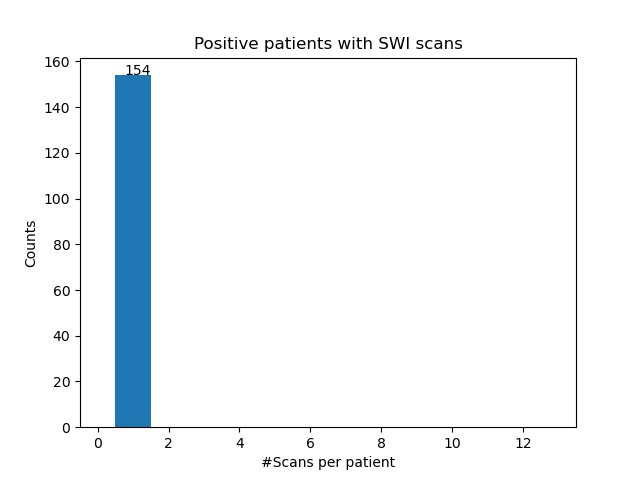
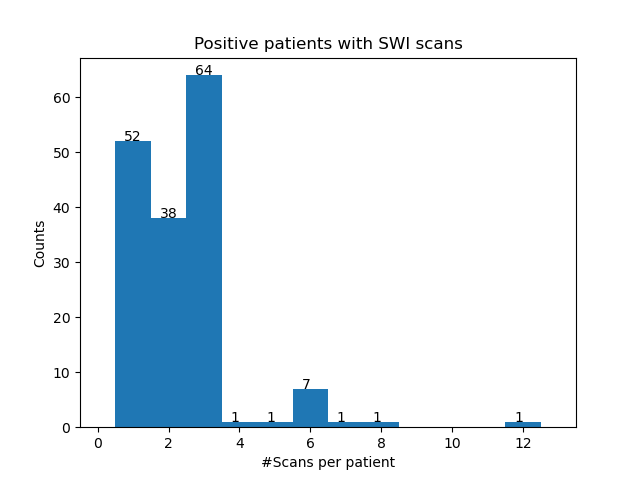
swi stats + power calculation

diff --git a/Cobra/cobra/general_stats_swi.py b/Cobra/cobra/general_stats_swi.py
@@ -16,63 +16,12 @@ main_folder = "/home/neus/Documents/09.UCPH/MasterThesis/github/Thesis/Cobra/cob
 figs_folder = f'{main_folder}/figs/cmb_stats'
 csv_folder = f"{main_folder}/tables"
 csv_file_name = "swi_pos_scans"
-# csv_file_name = "neg_pos_clean"
-
-# table_all = load_scan_csv(f'{csv_folder}/{csv_file_name}.csv')
-# ###### Inspect quality for SWI positive scans.
-# mask_nan_values =  (table_all['InstanceCreationDate'].notna()&table_all['DateTime'].notna())
-# swi_pos_scans = table_all[(table_all['Positive']==1)&(table_all['Sequence']=='swi')&(table_all['days_since_test']>-3)&mask_nan_values]
-# #swi_pos_patients = swi_pos_scans.drop_duplicates(substet=['PatientID'])
-
-# swi_pos_scans = save_nscans(swi_pos_scans,f'{csv_folder}/{swi_pos_scans}')
 
 swi_pos_scans =  load_scan_csv(f'{csv_folder}/{csv_file_name}.csv')
 n_scans = swi_pos_scans.shape[0]
 n_patients = swi_pos_scans.drop_duplicates(subset='PatientID').shape[0]
 print(f'Number of scans:\t{n_scans}\nNumber of patients:\t{n_patients}')
 
-#Box plot
-swi_pos_scans.drop(index=2) #No slices in the folder????
-
-swi_pos_scans['PatientID'].to_csv(f'{csv_folder}/swi_pos_patientIds.csv')
-
-x_dim = swi_pos_scans['Rows']
-y_dim = swi_pos_scans['Columns']
-z_dim = swi_pos_scans['NumberOfSlices']
-data_to_plot = [x_dim,y_dim,z_dim]
-data_labels = ['dim x','dim y','dim z']
-
-fig,ax=plt.subplots()
-ax = create_boxplot(ax,data_to_plot,data_labels,title='Dimensions for SWI images')
-ax.set(ylabel='#Pixels')
-fig.savefig(f'{figs_folder}/swi_pos_dimensions.png')
-
-
-scans_groupedbyPatient = swi_pos_scans.groupby(['PatientID'])
-# Scans per patient distribution
-scans_perPatient = scans_groupedbyPatient.size()
-scans_min,scans_max = np.min(scans_perPatient),np.max(scans_perPatient)
-fig,ax = plt.subplots()
-ax.set(ylabel='Counts',xlabel='#Scans per patient')
-hist_data = create_1d_hist(ax,scans_perPatient,14,(-0.5,13.5),'Positive patients with SWI scans',display_counts=True)
-fig.savefig(f'{figs_folder}/swi_scans_per_patient.png')
-
-#Take patients that have only 1,2 or 3 scans
-patients_id = scans_perPatient[scans_perPatient<4].keys()
-swi_pos_scans = swi_pos_scans[swi_pos_scans['PatientID'].isin(patients_id)]
-swi_pos_scans = swi_pos_scans.sort_values('days_since_test',ascending=False)
-
-#Days since test for patients with multiple scans
-swi_pos_scans = swi_pos_scans.groupby('PatientID').first().reset_index() ###TAKING THE LATEST SCAN 
-days = swi_pos_scans['days_since_test']
-days_min,days_max = np.min(days),np.max(days)
-fig,ax = plt.subplots()
-ax.set(ylabel='Counts',xlabel='#Days since positive test')
-create_1d_hist(ax,days,100,(days_min,days_max),'Postive patients with multiple SWI')
-fig.savefig(f'{figs_folder}/swi_days_since_test.png')
-
-
-#print(swi_pos_scans.iloc[0])
 
 ### STATISTICS ON FILTERED DATA ##################################################################
 # Patients that: 
@@ -137,6 +86,40 @@ fig,ax = plt.subplots()
 ax.set(ylabel='Counts', xlabel=f'B$_0$ [T]')
 create_1d_hist(ax,b_values,4,(1.25,3.25),'Magnetic Field Strength for positive SWI',display_counts=True)
 fig.savefig(f'{figs_folder}/swi_pos_magneticFieldStrength.png')
+
+#Box plot for dimensions
+swi_pos_scans.drop(index=2) #No slices in the folder????
+ 
+x_dim = swi_pos_scans['Rows']
+y_dim = swi_pos_scans['Columns']
+z_dim = swi_pos_scans['NumberOfSlices']
+
+fig,ax=plt.subplots(1,2,figsize=(12,5))
+ax = ax.flatten()
+
+ax[0] = create_boxplot(ax[0],[x_dim,y_dim,z_dim],['Height','Width','Depth'],title='Dimensions for SWI images')
+ax[0].set(ylabel='#Pixels')
+
+ax[1] = create_boxplot(ax[1],[px_spacing_x,px_spacing_y,spacing_values],['Pix.Spacing x', 'Pix.spacing y', 'Spacing Between Slices'],title='Spacing for SWI images')
+ax[1].set(ylabel='Spacing [mm]')
+fig.savefig(f'{figs_folder}/swi_pos_dimensions.png')
+
+fig,ax=plt.subplots(2,2,figsize=(8,7),gridspec_kw={'width_ratios': [3, 1]})
+ax = ax.flatten()
+
+ax[0] = create_boxplot(ax[0],[x_dim,y_dim],['Height','Width'])
+ax[0].set(ylabel='#Pixels')
+
+ax[1] = create_boxplot(ax[1],[z_dim],['Depth'])
+ax[1].set(ylabel='#Pixels')
+
+ax[2] = create_boxplot(ax[2],[px_spacing_x,px_spacing_y],['Pix.Spacing x', 'Pix.spacing y'])
+ax[2].set(ylabel='Spacing [mm]')
+
+ax[3] = create_boxplot(ax[3],[spacing_values],['Spacing Between Slices'])
+ax[3].set(ylabel='Spacing [mm]')
+
+fig.savefig(f'{figs_folder}/swi_pos_dimensions_v2.png')
 
 #plt.show()
 

diff --git a/Cobra/cobra/other_calculations.py b/Cobra/cobra/other_calculations.py
@@ -5,6 +5,7 @@ Created on Nov 19th 2021
 @author: Neus Rodeja Ferrer
 """
 from utilities.stats import weighted_mean,weighted_std
+from utilities.utils import get_MDE
 import numpy as np
 
 #Multiple sclerosis Case-Control study
@@ -24,7 +25,7 @@ cmbs_number_std_all = weighted_std(cmbs_number_stds_all,weights_all)
 cmbs_volume_mean_all = weighted_mean(cmbs_volume_means_all,weights_all)
 cmbs_volume_std_all = weighted_std(cmbs_volume_stds_all,weights_all)
 
-print(f'For all population\n# CMBs = \t({cmbs_number_mean_all:.2f}+\-{cmbs_number_std_all:.2f})\nCMBs volume = \t({cmbs_volume_mean_all:.2f}+\-{cmbs_volume_std_all:.2f})')
+print(f'For all population\n# CMBs = \t({cmbs_number_mean_all:.2f}+\-{cmbs_number_std_all:.2f}) units \nCMBs volume = \t({cmbs_volume_mean_all:.2f}+\-{cmbs_volume_std_all:.2f}) mm³')
 #Values for <= 50 y.o.
 cmbs_number_means_50 = np.array([1.4,1.3,1.3])
 cmbs_number_stds_50 = np.array([0.7,0.5,0.5])
@@ -40,7 +41,7 @@ cmbs_number_std_50 = weighted_std(cmbs_number_stds_50,weights_50)
 cmbs_volume_mean_50 = weighted_mean(cmbs_volume_means_50,weights_50)
 cmbs_volume_std_50 = weighted_std(cmbs_volume_stds_50,weights_50)
 
-print(f'For >=50 y.o. population\n# CMBs = \t({cmbs_number_mean_50:.2f}+\-{cmbs_number_std_50:.2f})\nCMBs volume = \t({cmbs_volume_mean_50:.2f}+\-{cmbs_volume_std_50:.2f})')
+print(f'For >=50 y.o. population\n# CMBs = \t({cmbs_number_mean_50:.2f}+\-{cmbs_number_std_50:.2f}) units \nCMBs volume = \t({cmbs_volume_mean_50:.2f}+\-{cmbs_volume_std_50:.2f}) mm³')
 
 #SAME excluding MS
 cmbs_number_mean_all = weighted_mean(cmbs_number_means_all[1:],weights_all[1:])
@@ -56,5 +57,18 @@ cmbs_volume_mean_50 = weighted_mean(cmbs_volume_means_50[1:],weights_50[1:])
 cmbs_volume_std_50 = weighted_std(cmbs_volume_stds_50[1:],weights_50[1:])
 
 print('\n\nEXCLUDING PATIENTS WITH MS')
-print(f'For all population\n# CMBs = \t({cmbs_number_mean_all:.2f}+\-{cmbs_number_std_all:.2f})\nCMBs volume = \t({cmbs_volume_mean_all:.2f}+\-{cmbs_volume_std_all:.2f})')
-print(f'For >=50 y.o. population\n# CMBs = \t({cmbs_number_mean_50:.2f}+\-{cmbs_number_std_50:.2f})\nCMBs volume = \t({cmbs_volume_mean_50:.2f}+\-{cmbs_volume_std_50:.2f})')
+print(f'For all population\n# CMBs = \t({cmbs_number_mean_all:.2f}+\-{cmbs_number_std_all:.2f}) units \nCMBs volume = \t({cmbs_volume_mean_all:.2f}+\-{cmbs_volume_std_all:.2f}) mm³')
+print(f'For >=50 y.o. population\n# CMBs = \t({cmbs_number_mean_50:.2f}+\-{cmbs_number_std_50:.2f}) units \nCMBs volume = \t({cmbs_volume_mean_50:.2f}+\-{cmbs_volume_std_50:.2f}) mm³')
+
+###Do the power calculation 
+
+power = 0.8
+significance = 0.05
+P = 1/4
+N = 150
+std_number = 0.5
+mde_number = get_MDE(std_number,N,power,significance,P)
+std_volume = 27
+mde_volume = get_MDE(std_volume,N,power,significance,P)
+
+print(f'\n\nMDE={mde_number} #CMBs \nMDE={mde_volume} mm³')

diff --git a/Cobra/cobra/select_swi_patients.py b/Cobra/cobra/select_swi_patients.py
@@ -1,0 +1,60 @@
+# -*- coding: utf-8 -*-
+"""
+Created on Mon Nov  15 12:06:00 2021
+
+@author: neusRodeja
+"""
+
+import numpy as np
+import pandas as pd 
+from utilities.utils import load_scan_csv,df_unique_values,find_n_slices,save_nscans
+from stats_tools.vis import create_1d_hist,create_2d_hist,create_boxplot
+import matplotlib.pyplot as plt 
+
+
+main_folder = "/home/neus/Documents/09.UCPH/MasterThesis/github/Thesis/Cobra/cobra"
+figs_folder = f'{main_folder}/figs/cmb_stats'
+csv_folder = f"{main_folder}/tables"
+csv_swi_file_name = "swi_pos_scans"
+csv_file_name = "neg_pos_clean"
+
+table_all = load_scan_csv(f'{csv_folder}/{csv_file_name}.csv')
+###### Inspect quality for SWI positive scans.
+mask_nan_values =  (table_all['InstanceCreationDate'].notna()&table_all['DateTime'].notna())
+swi_pos_scans = table_all[(table_all['Positive']==1)&(table_all['Sequence']=='swi')&(table_all['days_since_test']>-3)&mask_nan_values]
+#swi_pos_patients = swi_pos_scans.drop_duplicates(substet=['PatientID'])
+
+n_scans = swi_pos_scans.shape[0]
+n_patients = swi_pos_scans.drop_duplicates(subset='PatientID').shape[0]
+print(f'Number of scans:\t{n_scans}\nNumber of patients:\t{n_patients}')
+
+scans_groupedbyPatient = swi_pos_scans.groupby(['PatientID'])
+# Scans per patient distribution
+scans_perPatient = scans_groupedbyPatient.size()
+scans_min,scans_max = np.min(scans_perPatient),np.max(scans_perPatient)
+fig,ax = plt.subplots()
+ax.set(ylabel='Counts',xlabel='#Scans per patient')
+hist_data = create_1d_hist(ax,scans_perPatient,14,(-0.5,13.5),'Positive patients with SWI scans',display_counts=True)
+fig.savefig(f'{figs_folder}/swi_scans_per_patient.png')
+
+#Take patients that have only 1,2 or 3 scans
+patients_id = scans_perPatient[scans_perPatient<4].keys()
+swi_pos_scans = swi_pos_scans[swi_pos_scans['PatientID'].isin(patients_id)]
+swi_pos_scans = swi_pos_scans.sort_values('days_since_test',ascending=False)
+
+#Days since test for patients with multiple scans
+swi_pos_scans = swi_pos_scans.groupby('PatientID').first().reset_index() ###TAKING THE LATEST SCAN 
+days = swi_pos_scans['days_since_test']
+days_min,days_max = np.min(days),np.max(days)
+fig,ax = plt.subplots()
+ax.set(ylabel='Counts',xlabel='#Days since positive test')
+create_1d_hist(ax,days,100,(days_min,days_max),'Postive patients with multiple SWI')
+fig.savefig(f'{figs_folder}/swi_days_since_test.png')
+
+# #Save the number of slices per scan and save the table
+# swi_pos_scans = save_nscans(swi_pos_scans,f'{csv_folder}/{csv_swi_file_name}.csv')
+
+# #Save extra files to send to computerome
+# swi_pos_scans['PatientID'].to_csv(f'{csv_folder}/swi_pos_patientIds.csv')
+# swi_pos_scans['DateTime'].to_csv(f'{csv_folder}/swi_pos_dateTime.csv')
+

diff --git a/Cobra/cobra/select_swi_neg_patients.py b/Cobra/cobra/select_swi_neg_patients.py
@@ -1,0 +1,50 @@
+# -*- coding: utf-8 -*-
+"""
+Created on Mon Nov  15 12:06:00 2021
+
+@author: neusRodeja
+"""
+
+import numpy as np
+import pandas as pd 
+from utilities.utils import load_scan_csv,df_unique_values,find_n_slices,save_nscans
+from stats_tools.vis import create_1d_hist,create_2d_hist,create_boxplot
+import matplotlib.pyplot as plt 
+
+
+main_folder = "/home/neus/Documents/09.UCPH/MasterThesis/github/Thesis/Cobra/cobra"
+figs_folder = f'{main_folder}/figs/cmb_stats'
+csv_folder = f"{main_folder}/tables"
+csv_swi_file_name = "swi_neg_scans"
+csv_file_name = "neg_pos_clean"
+
+table_all = load_scan_csv(f'{csv_folder}/{csv_file_name}.csv')
+###### Inspect quality for SWI positive scans.
+mask_nan_values =  (table_all['InstanceCreationDate'].notna()&table_all['DateTime'].notna())
+swi_neg_scans = table_all[(table_all['Positive']==0)&(table_all['Sequence']=='swi')&mask_nan_values]
+#swi_pos_patients = swi_neg_scans.drop_duplicates(substet=['PatientID'])
+
+n_scans = swi_neg_scans.shape[0]
+n_patients = swi_neg_scans.drop_duplicates(subset='PatientID').shape[0]
+print(f'Number of scans:\t{n_scans}\nNumber of patients:\t{n_patients}')
+
+scans_groupedbyPatient = swi_neg_scans.groupby(['PatientID'])
+# Scans per patient distribution
+scans_perPatient = scans_groupedbyPatient.size()
+scans_min,scans_max = np.min(scans_perPatient),np.max(scans_perPatient)
+fig,ax = plt.subplots()
+ax.set(ylabel='Counts',xlabel='#Scans per patient')
+hist_data = create_1d_hist(ax,scans_perPatient,14,(-0.5,13.5),'Negative patients with SWI scans',display_counts=True)
+fig.savefig(f'{figs_folder}/swi_scans_per_patient.png')
+
+#Take patients that have only 1,2 or 3 scans
+patients_id = scans_perPatient[scans_perPatient<4].keys()
+swi_neg_scans = swi_neg_scans[swi_neg_scans['PatientID'].isin(patients_id)]
+swi_neg_scans = swi_neg_scans.sort_values('DateTime',ascending=True)
+swi_neg_scans = swi_neg_scans.groupby('PatientID').first().reset_index() ###TAKING THE FIRST SCAN 
+
+#Save the number of slices per scan and save the table
+swi_neg_scans = save_nscans(swi_neg_scans,f'{csv_folder}/{csv_swi_file_name}.csv',print_level=1)
+
+#Save extra files to send to computerome
+swi_neg_scans['PatientID'].to_csv(f'{csv_folder}/swi_neg_patientIds.csv')

diff --git a/Cobra/cobra/utilities/utils.py b/Cobra/cobra/utilities/utils.py
@@ -15,6 +15,7 @@ from datetime import datetime as dt
 from pathlib import Path
 import logging
 import tarfile
+import numpy as np
 import os.path
 
 
@@ -225,20 +226,29 @@ def df_unique_values(data_frame,columns):
     return unique_values
 
 def find_slices_path(patientID,studyID,seriesID,sif_path = '/home/neus/sif'):
-    """Find paths of the .dcm files for a certain scan."""
-    return iglob(f'{sif_path}/*/{patientID}/{studyID}/MR/{seriesID}/*.dcm') #to find the path
+    """Find paths of the .dcm files for a specific scan."""
+    return [n for n in iglob(f'{sif_path}/*/{patientID}/{studyID}/MR/{seriesID}/*.dcm')] #to find the path
+
+def find_reports_path(patientID,studyID,sif_path='/home/neus/sif'):
+    """Find reports path for a specific scan."""
+    return [n for n in iglob(f'{sif_path}/*/{patientID}/{studyID}/DOC/*.pdf')] #to find the path
 
 def find_n_slices(patientID,studyID,seriesID,sif_path='/home/neus/sif'):
-    """Find the number of slices for a certain scan."""
-    paths = [1 for n in find_slices_path(patientID,studyID,seriesID,sif_path=sif_path)]
-    return len(paths)
+    """Find the number of slices for a specific scan."""
+    return len(find_slices_path(patientID,studyID,seriesID,sif_path=sif_path))
 
-def save_nscans(data_frame,csv_file_path):
+def save_nscans(data_frame,csv_file_path,print_level=0):
     """Rewrite and save the table with an extra colum for the number of slices."""
     n_slices = []
+    start = time.time()
     for index,row in data_frame.iterrows(): 
+        if (print_level==1):
+            print(f'Scan number {index}/{data_frame.shape[0]} \t {(time.time()-start)/60} minutes')
         n_slices.append(find_n_slices(row['PatientID'],row['StudyInstanceUID'],row['SeriesInstanceUID']))
     data_frame['NumberOfSlices'] = n_slices
     data_frame.to_csv(csv_file_path)
 
     return data_frame
+
+def get_MDE(std,N,power=0.8,significance=0.05,p=1./3.):
+    return (power+significance)* np.sqrt(1/p/(1-p)) * np.sqrt(std**2/N)

diff --git a/Cobra/cobra/stats_tools/vis.py b/Cobra/cobra/stats_tools/vis.py
@@ -526,8 +526,8 @@ def create_boxplot(ax,data,data_labels=None,title=''):
     
     if (data_labels is None):
         data_labels = [int(i+1) for i in range(len(data))]
-    ax = sns.boxplot(data=data,palette='Set2',medianprops=dict(color="red"))
-    ax = sns.stripplot(data=data, color=".25",alpha=0.3)
+    ax = sns.boxplot(ax=ax,data=data,palette='Set2',medianprops=dict(color="red"))
+    ax = sns.stripplot(ax=ax,data=data, color=".25",alpha=0.3)
     ax.set_xticklabels(data_labels)
     ax.get_xaxis().tick_bottom()
     ax.set_title(title)
